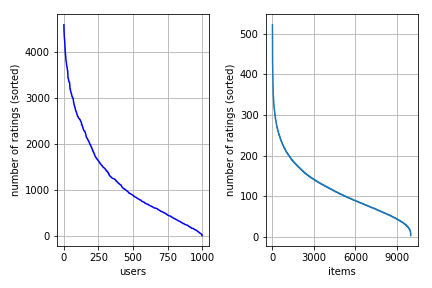
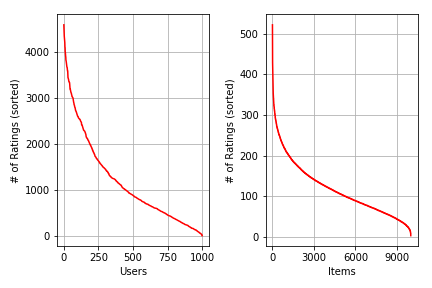
-- u

diff --git a/plots.py b/plots.py
@@ -16,15 +16,15 @@ def plot_raw_data(ratings):
     # plot
     fig = plt.figure()
     ax1 = fig.add_subplot(1, 2, 1)
-    ax1.plot(sorted_num_movies_per_user, color='blue')
-    ax1.set_xlabel("users")
-    ax1.set_ylabel("number of ratings (sorted)")
+    ax1.plot(sorted_num_movies_per_user, color='red')
+    ax1.set_xlabel("Users")
+    ax1.set_ylabel("# of Ratings (sorted)")
     ax1.grid()
 
     ax2 = fig.add_subplot(1, 2, 2)
-    ax2.plot(sorted_num_users_per_movie)
-    ax2.set_xlabel("items")
-    ax2.set_ylabel("number of ratings (sorted)")
+    ax2.plot(sorted_num_users_per_movie, color='red')
+    ax2.set_xlabel("Items")
+    ax2.set_ylabel("# of Ratings (sorted)")
     ax2.set_xticks(np.arange(0, 12000, 3000))
     ax2.grid()
 
@@ -43,37 +43,44 @@ def plot_train_test_data(train, test):
     ax1.set_xlabel("Users")
     ax1.set_ylabel("Items")
     ax1.set_title("Training data")
+    
     ax2 = fig.add_subplot(1, 2, 2)
     ax2.spy(test, precision=0.01, markersize= 0.5)
     ax2.set_xlabel("Users")
     ax2.set_ylabel("Items")
     ax2.set_title("Test data")
+    
     plt.tight_layout()
     plt.savefig("train_test")
     plt.show()
     
 def plot_mean_and_std_per_user(user_means, user_stds):
     data = user_means
-
-    bins = np.arange(0, 5, 0.05) # fixed bin size
-    plt.xlim([min(data) -0.5, max(data) + 0.5])
-    plt.hist(data, bins=bins, alpha=0.5)
-    plt.title('mean per user')
-    plt.xlabel('mean')
-    plt.ylabel('count')
-    plt.show()
+    bins = np.arange(0, 5, 0.1) # fixed bin size
+    
+    fig = plt.figure()
+    
+    ax1 = fig.add_subplot(1, 2, 1)
+    plt.xlim([min(data) - 0.5, max(data) + 0.5])
+    ax1.hist(data, bins=bins, alpha=0.5)
+    ax1.set_xlabel("Mean")
+    ax1.set_ylabel("# of Users")
+    #ax1.savefig("mean_per_user")
 
     data = user_stds
+    bins = np.arange(0, 2, 0.05) # fixed bin size
     
-    bins = np.arange(0, 2, 0.03) # fixed bin size
-
+    ax2 = fig.add_subplot(1, 2, 2)
     plt.xlim([min(data) - 0.3, max(data) + 0.3])
-
-    plt.hist(data, bins=bins, alpha=0.5)
-    plt.title('std per user')
-    plt.xlabel('std')
-    plt.ylabel('count')
+    ax2.hist(data, bins=bins, alpha=0.5)
+    ax2.set_xlabel("Standart Deviation")
+    ax2.set_ylabel("# of Users")
+    #ax2.savefig("std_per_user")
+    
+    plt.tight_layout()
+    plt.savefig("statss")
     plt.show()
+
 
 
 
